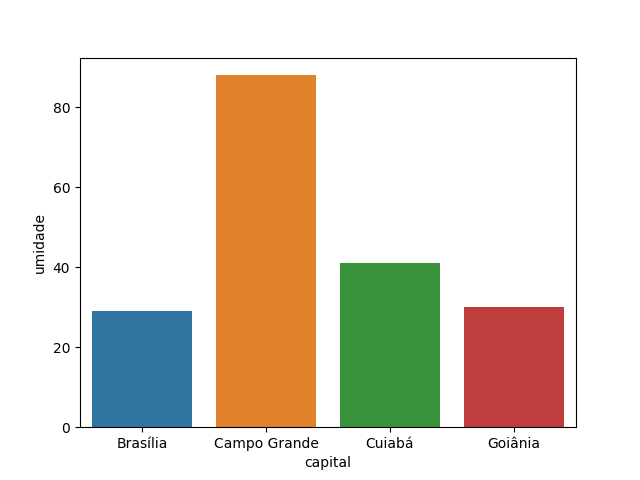
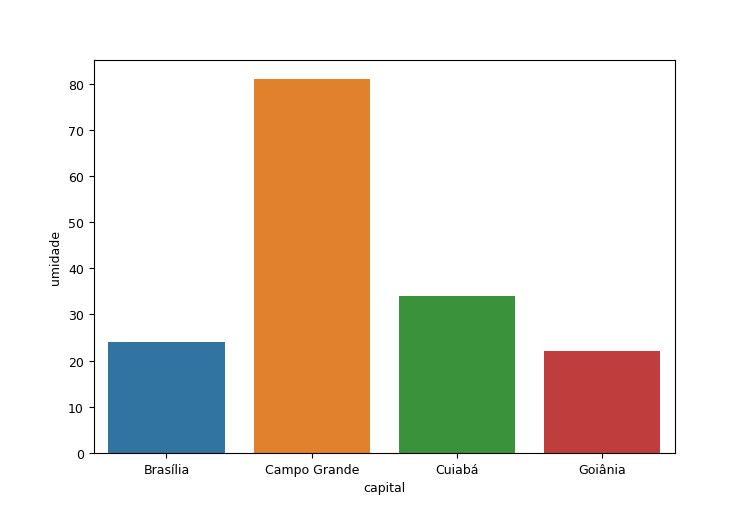
hu

diff --git a/static/css/style.css b/static/css/style.css
@@ -191,11 +191,12 @@ footer.container{
     margin-top: 10%;
 }
 #select_grafic{
+    -webkit-appearance: none; -moz-appearance: none; appearance: none;
     margin-bottom: 20px;
-    text-decoration: none;
+    /* text-decoration: none; */
     background-color: #213469;
     color: white;
-    border-radius: 10px;
+    /* border-radius: 10px; */
     font-weight: bold;
     text-align: center;
     width: 100%;
@@ -210,11 +211,7 @@ footer.container{
 
 /* ____________________________________________ */
 .posicao-Sul, .posicao-Sudeste, .posicao-Centro-Oeste, .posicao-Nordeste, .posicao-Norte{
-    border: solid 1px black;
-    background-color: #cccccc;
-    width: 642px;
-    height: 483px;
-    margin: 0 auto;
+    text-align: center;
 }
 
 .posicao-div-img img[alt="Gráfico Sul"]{
@@ -254,6 +251,11 @@ header h1{
         width: 25%;   
     }
 
+}
+@media screen and (max-width: 753px ){
+    img[src*="../static/graficos/"] {
+        width: 100%;
+    }
 }
 @media screen and (max-width: 700px ){
     .posicao_div{
@@ -297,6 +299,10 @@ header h1{
     #select_grafic{
         font-size: 20px;
     }
+
 }
+
+
+
 
 /* --------------- */

diff --git a/templates/index.html b/templates/index.html
@@ -33,18 +33,11 @@
         <div class="container"><h2 class="regiao_capitais"></h2></div> 
         <section class="container" id="section_conteudo"></section>
     </main>
-    <div class="content">
-        <img src="https://www.google.com/imgres?imgurl=https%3A%2F%2Fs1.static.brasilescola.uol.com.br%2Fbe%2Fconteudo%2Fimages%2Fimagem-em-lente-convexa.jpg&imgrefurl=https%3A%2F%2Feducador.brasilescola.uol.com.br%2Festrategias-ensino%2Fcomo-produzir-imagens-reais-virtuais-sala-aula.htm&tbnid=x1_P2c7esuB1uM&vet=12ahUKEwjNtNKfprfzAhVgLbkGHUazAi8QMygEegUIARDQAQ..i&docid=hSg7FQdSBou-5M&w=700&h=467&q=imagens&client=opera-gx&ved=2ahUKEwjNtNKfprfzAhVgLbkGHUazAi8QMygEegUIARDQAQ" >
-      </div>
     <footer class="container">
         <p>Desenvolvido por Álef Vieira Coutinho</p>
         <p>e Kennedy Oliveira</p>
     </footer>
-    <script>
-        $(window).on("load",function(){
-          $(".loader-wrapper").fadeOut("slow");
-        });
-    </script>
+
     <script type="text/javascript" src="../static/javascript.js">
     </script>
         

diff --git a/static/javascript.js b/static/javascript.js
@@ -39,10 +39,11 @@ $(function(){
             $(".posicao-Sul").remove();
             
             for (let i of lista){
-                sec_dois.innerHTML += `<h1>${i}</h1><div class="posicao-${i}"></div>`
-                grafico = `url('../static/graficos/grafico_${i}_${valor_select}.png')`
-                
-                $(".posicao-"+i).css("background-image", grafico)
+                sec_dois.innerHTML += `<h1>${i}</h1><div class="posicao-${i}">
+                    <img src="../static/graficos/grafico_${i}_${valor_select}.gif" alt="Gráfico ${i} ${valor_select}">
+                </div>`
+                // grafico = `url('../static/graficos/grafico_${i}_${valor_select}.png')`                
+                // $(".posicao-"+i).src("background-image", grafico)
             }
             $(".sec_dois").show()
         

diff --git a/comandos_BD.py b/comandos_BD.py
@@ -3,10 +3,13 @@ import pandas as pd
 import numpy as np
 import xmltodict
 import matplotlib.pyplot as plt
+import matplotlib.dates as mdates
 import seaborn as sns
 from urllib.request import urlopen
 from sqlite3 import Error
 import json
+import os
+from PIL import Image
 
 # ESSA FUNÇÃO FAZ O UPDATE, INSERT E CREATE NO BANCO DE DADOS
 def query(conexao,sql):
@@ -93,7 +96,11 @@ def funcao_json(nome_arquivo, sql):
 
 def criaConteudoJSON():
     sql_v = "SELECT capitais.capital, valores.codigo, valores.atualizacao, valores.pressao, valores.temperatura, valores.tempo, valores.tempo_desc, valores.umidade, valores.vento_dir, valores.vento_int, valores.intensidade, capitais.regiao FROM valores, capitais WHERE capitais.codigo = valores.codigo" 
-    funcao_json("conteudo_secao", sql_v)
+    dados_capitais = consultar(Conexao_BD.vcon, sql_v)
+
+    with open(f'static/conteudo_secao.json', 'w', encoding='utf-8') as f:
+        json.dump(dados_capitais, f, ensure_ascii=False)
+    
 # funcao_json("valores", "SELECT * FROM valores")
 # funcao_json("capitais", SELECT * FROM capitais)
 #_____________________
@@ -111,56 +118,77 @@ def query_cria_grafico(tygrafico):
 
     dec = data['capitais']['metar']
     #ESSE IF VAI IMPERDIR QUE OS MESMOS GRAFICOS SE REPITAM
-    if compara[0][0] != dec[0]['atualizacao']:
+    # if compara[0][0] != dec[0]['atualizacao']:
         # ESTRUTURA DE REPETIÇÃO QUE VAI GERAR OS GRAFICOS
-        lista_graficos = ['Nordeste' , 'Norte', 'Centro-Oeste', 'Sul', 'Sudeste']
-        for repet in lista_graficos:
-            sql = f"SELECT  capitais.capital, valores.pressao, valores.temperatura, valores.umidade, valores.vento_dir, valores.vento_int  FROM valores, capitais WHERE valores.codigo = capitais.codigo  and capitais.regiao = '{repet}'"
-            res = consultar(Conexao_BD.vcon, sql)
-            dic = {
-                'capital': "",
-                'pressao': "",
-                'temperatura': "",
-                'umidade': "",
-                'vento_dir': "",
-                'vento_int': "",
-            }
-            # dic['capital'] = 
-            colunas = pd.DataFrame(res) # ESSE METODO COLOCA NOMES NAS COLUNAS
-            dic['capital'] = colunas[0]
-            dic['pressao'] = colunas[1]
-            dic['temperatura'] = colunas[2]
-            dic['umidade'] = colunas[3]
-            dic['vento_dir'] = colunas[4]
-            dic['vento_int'] = colunas[5]
+    lista_graficos = ['Nordeste' , 'Norte', 'Centro-Oeste', 'Sul', 'Sudeste']
+
+    for repet in lista_graficos:
+        sql = f"SELECT  capitais.capital, valores.pressao, valores.temperatura, valores.umidade, valores.vento_dir, valores.vento_int, valores.atualizacao FROM valores, capitais WHERE valores.codigo = capitais.codigo  and capitais.regiao = '{repet}'"
+        res = consultar(Conexao_BD.vcon, sql)
+
+
+        dic = {
+            'capital': "",
+            'pressao': "",
+            'temperatura': "",
+            'umidade': "",
+            'vento_dir': "",
+            'vento_int': "",
+        }
+        colunas = pd.DataFrame(res) # ESSE METODO COLOCA NOMES NAS COLUNAS
+        # print(colunas)
+        dic['capital'] = colunas[0]
+        dic['pressao'] = colunas[1]
+        dic['temperatura'] = colunas[2]
+        dic['umidade'] = colunas[3]
+        dic['vento_dir'] = colunas[4]
+        dic['vento_int'] = colunas[5]
+
+        # sns.set(rc={'figure.figsize': (7.2, 5), 'font.size': 5})
+        # sns.set(rc={})    width: 642px;height: 483px;
+        plt.rcParams.update({'figure.figsize': (7.5, 5.1), 'font.size': 9})
+
+        if tygrafico == 'pressao':
+            colunas = pd.DataFrame(dic, columns=['capital', 'pressao'])
+            plot = sns.barplot(data=colunas, x='capital', y='pressao')
+
+        elif tygrafico == 'temperatura': 
+            colunas = pd.DataFrame(dic, columns=['capital', 'temperatura'])
+            plot = sns.barplot(data=colunas, x='capital', y='temperatura')
+
+        elif tygrafico == 'umidade': 
+            colunas = pd.DataFrame(dic, columns=['capital', 'umidade'])
+            plot = sns.barplot(data=colunas, x='capital', y='umidade')
+
+        elif tygrafico == 'vento_dir': 
+            colunas = pd.DataFrame(dic, columns=['capital', 'vento_dir'])
+            plot = sns.barplot(data=colunas, x='capital', y='vento_dir')
             
-            if tygrafico == 'pressao':
-                colunas = pd.DataFrame(dic, columns=['capital', 'pressao'])
-                plot = sns.barplot(data=colunas, x='capital', y='pressao')
-
-            elif tygrafico == 'temperatura': 
-                colunas = pd.DataFrame(dic, columns=['capital', 'temperatura'])
-                plot = sns.barplot(data=colunas, x='capital', y='temperatura')
-
-            elif tygrafico == 'umidade': 
-                colunas = pd.DataFrame(dic, columns=['capital', 'umidade'])
-                plot = sns.barplot(data=colunas, x='capital', y='umidade')
-
-            elif tygrafico == 'vento_dir': 
-                colunas = pd.DataFrame(dic, columns=['capital', 'vento_dir'])
-                plot = sns.barplot(data=colunas, x='capital', y='vento_dir')
-                
-            elif tygrafico == 'vento_int': 
-                colunas = pd.DataFrame(dic, columns=['capital', 'vento_int'])
-                plot = sns.barplot(data=colunas, x='capital', y='vento_int')
-            
-            else: break
-
-            plot.get_figure().savefig(f"static/graficos/grafico_{repet}_{tygrafico}.png")
-            plt.close()
-    print("FEITO")
-            
+        elif tygrafico == 'vento_int': 
+            colunas = pd.DataFrame(dic, columns=['capital', 'vento_int'])
+            plot = sns.barplot(data=colunas, x='capital', y='vento_int')
         
+        else: break
+
+        plot.get_figure().savefig(f"static/graficos/grafico_{repet}_{tygrafico}.png")
+        plt.close()
+        
+        # esse metodo vai selecionar a imagem e vai exclui-la da pasta
+        # imagem = Image.open(os.path.join(f"static/graficos/grafico_{repet}_{tygrafico}.png")) # vai selecionar a imagem
+        # redimencionarImagem = imagem.resize((550, 400)) # vai redimencionar a imagem
+        # nome_sem_ext = os.path.splitext(f"static/graficos/grafico_{repet}_{tygrafico}.png")[0]
+
+        # redimencionarImagem.save(os.path.join(nome_sem_ext+ '.gif' )) # vai salvar a imagem como o novo formato
+        # os.remove(f"static/graficos/grafico_{repet}_{tygrafico}.png")
+        
+        # from datetime import  date
+        # data_e_hora_atuais = date.today()
+        # print(data_e_hora_atuais)
+
+
+    print("FEITO")
+ 
+
 # query_cria_grafico('umidade')
 # query_cria_grafico('pressao')
 # query_cria_grafico('temperatura')
@@ -188,8 +216,8 @@ def atualizarValores():
         
         criaConteudoJSON() # VAI ATUALIZAR O ARQUIVO JSON
         
-    else: 
-        print("ESTÃO IGUAIS OU DEU ERRO")
+    # else: 
+    #     print("ESTÃO IGUAIS OU DEU ERRO")
 
 
 # print(compara)
